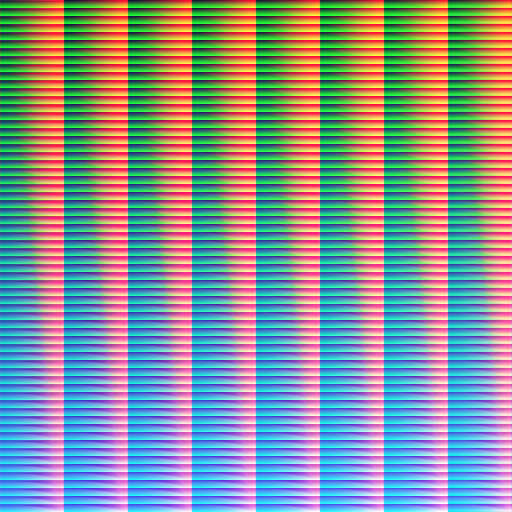
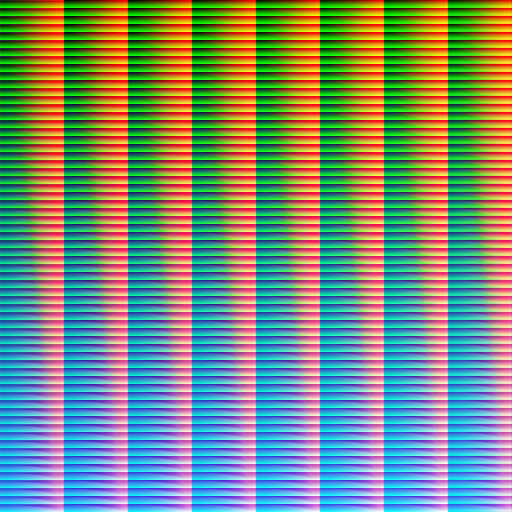
Enhancement: replace LUT with supplied color cube, retune quality chain
- Rebuild assets/anime_reference_color_cube_l8.png from the user-provided
  8x8 tile-grid LUT reference (64 tiles, B per tile, R on tile-x, G on
  tile-y), converted to ffmpeg haldclut level-8 layout. This removes the
  previous grade entirely and installs the requested cool/teal LUT as the
  sole color transform in the enhance stage.
- Retune the quality chain toward the quality-enhanced reference: keep the
  strong nlmeans de-grain, soften cas (0.30->0.20) and line-ink unsharp
  (0.20/0.12 -> 0.12/0.08) so linework stays clean without crunchy edges,
  halos, or ringing.
- Order unchanged: denoise -> LUT -> gentle sharpen -> deband -> yuv420p.
  LUT applied exactly once; no downstream color step alters it.

diff --git a/scripts/enhance_scenes.py b/scripts/enhance_scenes.py
@@ -20,12 +20,16 @@ The picture chain is, in order:
 Rationale for each stage:
 
 * ``nlmeans`` is used spatially at a high but bounded strength because the
-  supplied reference contains visible film-like grain. This removes grain
-  while preserving anime contours better than aggressive global sharpening.
-* The supplied 64³ color-cube asset carries the requested grade. It is the
-  only color transform in this stage; no contrast curve is stacked after it.
+  supplied quality-enhanced reference is visibly de-grained (the source
+  carries heavy film-like grain). This removes grain while preserving anime
+  contours better than aggressive global sharpening.
+* The supplied 64³ color-cube asset carries the requested grade (the
+  cool/teal LUT shown in the provided grid reference). It is the only color
+  transform in this stage; no contrast curve is stacked after it. The
+  previous grade has been fully removed — this asset IS the only LUT.
 * ``cas`` and ``unsharp`` are deliberately gentle so line ink stays clean and
-  the pass does not create halos, ringing, or crunchy edges.
+  the pass does not create halos, ringing, or crunchy edges — matching the
+  natural-looking, clean-linework quality of the enhanced reference.
 * ``gradfun`` cleans up any banding the encode introduced on the smooth
   cel gradients — always the last chroma-domain step before
   ``format=yuv420p`` locks the output pixel format.
@@ -46,21 +50,23 @@ import subprocess
 import sys
 from pathlib import Path
 
-DENOISE = "nlmeans=s=30:p=7:r=15"
+DENOISE = "nlmeans=s=30:p=7:r=15"  # strong spatial denoise: matches the de-grained look of the quality-enhanced reference
 LUT_FILTER = "haldclut=shortest=1"
 
 # The supplied level-8 color cube is a 512×512 PNG encoding a 64×64×64
-# mapping. It is a shipped asset and must not be procedurally overwritten.
+# mapping. It is rebuilt from the user-provided 8×8 tile-grid LUT reference
+# (64 tiles, B per tile, R on tile-x, G on tile-y) and must not be
+# procedurally overwritten.
 LUT_ASSET = Path(__file__).resolve().parents[1] / "assets" / "anime_reference_color_cube_l8.png"
 
 # Contrast-adaptive sharpen: restores texture after denoise across the whole
 # frame in a locally content-aware way (does not ring on flat areas).
-EDGE_SHARPEN = "cas=strength=0.30"
+EDGE_SHARPEN = "cas=strength=0.20"  # gentler: reference linework is clean, not crunchy
 
 # Luma-only unsharp with a hard 0.35 threshold: only pixels whose local contrast exceeds the threshold are
 # sharpened, targeting line ink while skipping flat cel-shaded regions. The
 # chroma matrix is zeroed via the trailing 5:5:0 to avoid chromatic halos.
-LINE_SHARPEN = "unsharp=5:5:0.20:5:5:0.12"
+LINE_SHARPEN = "unsharp=5:5:0.12:5:5:0.08"  # gentler: avoids over-sharpened/crunchy ink
 
 # gradfun cleans any 8-bit banding introduced by the encode. Kept mild
 # (strength 1.2, radius 16) so it does not eat fine texture.
